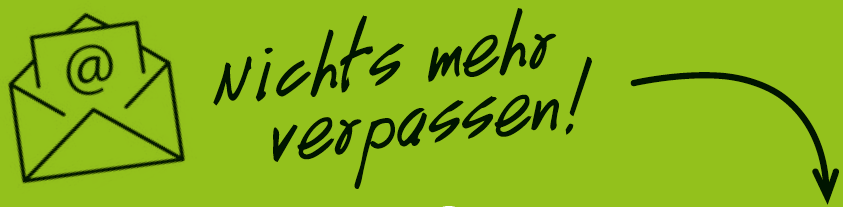
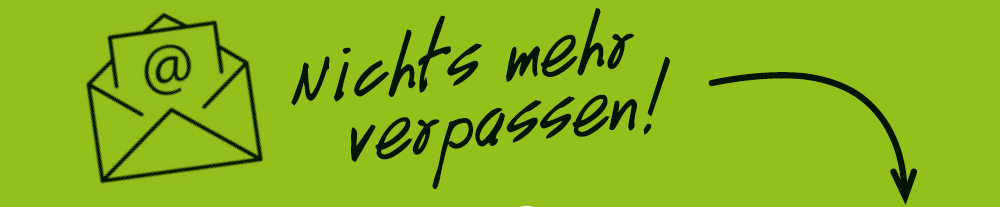
[CHG] add social media snippet

Changed region(s): [[0.0, 0.029, 1.0, 0.9855], [0.5243, 0.9855, 0.5552, 1.0]]

diff --git a/addons/fso_website_email_vgtf/static/src/css/email_theme_vgtf.css b/addons/fso_website_email_vgtf/static/src/css/email_theme_vgtf.css
@@ -361,6 +361,23 @@ body,
     width: 320px;
 }
 
+/* social snippet */
+
+#combined_social_snippet.snippet_block_text_image_left .flexibleContainerLeft,
+#combined_social_snippet.snippet_block_text_image_left .flexibleContainerLeft .flexibleImage {
+    width: 340px;
+
+}
+#combined_social_snippet.snippet_block_text_image_left .flexibleContainerRight,
+#combined_social_snippet.snippet_block_text_image_left .flexibleContainerRight .flexibleImage {
+    width: 200px;
+}
+
+#combined_social_snippet.snippet_block_text_image_left .flexibleContainerRight > tbody > tr > td {
+    height: 120px;
+    vertical-align: bottom;
+}
+
 @media only screen and (max-width: 480px) {
     /* vgtf_snippet_block */
     .vgtf_snippet_block.snippet_block_text_image_left .flexibleContainerLeft,
@@ -407,5 +424,25 @@ body,
     }
     #combined_kontakt_snippet.snippet_block_text_image_left .flexibleContainerLeft .flexibleImage {
         display: inline-block;
+    }
+
+    /* social snippet */
+
+    #combined_social_snippet.snippet_block_text_image_left .flexibleContainerLeft,
+    #combined_social_snippet.snippet_block_text_image_left .flexibleContainerLeft .flexibleImage {
+        width: 100%;
+    }
+    #combined_social_snippet.snippet_block_text_image_left .flexibleContainerLeft {
+        width: 100%;
+        max-width: 100%;
+        text-align: center !important;
+        text-align: -webkit-center !important;
+    }
+    #combined_social_snippet.snippet_block_text_image_left .flexibleContainerLeft .flexibleImage {
+        display: inline-block;
+    }
+    #combined_social_snippet.snippet_block_text_image_left .flexibleContainerRight > tbody > tr > td {
+        height: unset;
+        vertical-align: top;
     }
 }
